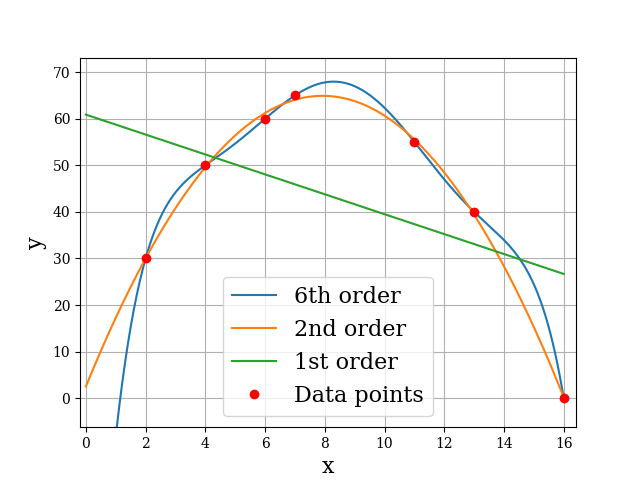
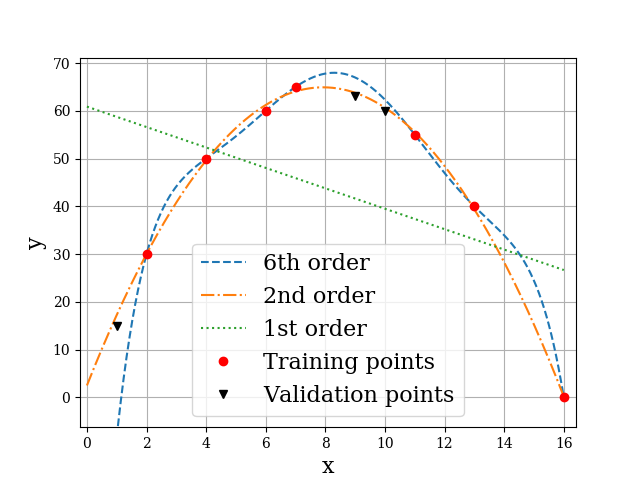
Wrote more about machine learning

diff --git a/doc/text/MachineLearning.tex b/doc/text/MachineLearning.tex
@@ -48,11 +48,11 @@ where the parameters $a$, $b$ and $c$ are our estimators. The polynomial is now 
 \end{equation}
 where $\tilde{y}_i=f(x_i)$ is the $y$-value of the polynomial at $x=x_i$. What we want to do is to determine the estimators $a$, $b$ and $c$ such that the mean squared error (MSE) of all these equations is minimized,
 \begin{equation}
-\min_{a,b,c}\sum_{i=0}^{n-1}(y_i-f(x_i;a.b.c))^2.
+\min_{a,b,c}\frac{1}{n}\sum_{i=0}^{n-1}(y_i-f(x_i;a.b.c))^2.
 \end{equation}
-There are several ways to do this, but they all are based on the \textit{cost function} (also called the loss function), which yields
+There are several ways to do this, but they all are based on the \textit{cost function} (also called the loss function), which can simply be defined as the MSE
 \begin{equation}
-\mathcal{C}(a,b,c)=\sum_{i=0}^{n-1}\Big(y_i-(ax_i^2+bx_i+c)\Big)^2
+\mathcal{C}(a,b,c)=\frac{1}{n}\sum_{i=0}^{n-1}\Big(y_i-(ax_i^2+bx_i+c)\Big)^2
 \end{equation}
 and which we seek to minimize. Before we start minimizing this, we will introduce a more general notation, where the estimators are collected in a column vector 
 \begin{equation*}
@@ -85,36 +85,79 @@ where differentiating with respect to a vector here means that each component is
 which is the equation we seek to solve to find the best fitting polynomial. Before we proceed to the general case, let us have a quick look at an example.
 
 \subsubsection{Example}
-In this example, we will see how we in practice fit a polynomial to a data set. The data set chosen is the following
+In this example, we will see how we in practice fit a polynomial to a data set. Suppose we have a tiny data set consisting of 10 points
 \begin{align*}
-\bs{x}&=(2,4,6,7,11,13,16)\\
-\bs{y}&=(30,50,60,65,55,40,0)
+\bs{x}&=(1,2,4,6,7,9,10,11,13,16)\\
+\bs{y}&=(15,30,50,60,65,63,60,55,40,0)
+\label{eq:datapoints}
 \end{align*}
-which is plotted in figure (\ref{fig:polynomials} a). We then use equation \eqref{eq:polynomialestimators} to find the best fitting first-, second- and sixth order polynomials, and obtain
-\begin{align*}
-f_{\text{1st}}(x)&=-2.14x+60.87\\
-f_{\text{2nd}}(x)&=-x^2+15.74x + 2.51\\
-f_{\text{6th}}(x)&=-0.001x^6+0.04x^5-0.90x^4+9.04x^3-47.52x^2+129.74x-98.67\\
-\end{align*}
-where both are plotted together with the data points in figure (\ref{fig:polynomials} b). What we observe is that the first order polynomial gives a large error, while the second order polynomial provides a almost perfect fit. The sixth order polynomial reproduces the targets very well, but it might not be able to reproduce new points in a very good way. From this we can interpret that a first order polynomial has a too low complexity, we say that it underfits the data set. The sixth order polynomial probably overfits the data, since its shape is kind of unnatural, while the second order polynomial seems to have a correct complexity. We will discuss how we can choose a model of correct complexity in the section on bias-variance tradeoff, but before that we will write some words on general linear regression.
+in a plane, which we want to fit a polynomial of degree $p$ to. The data points can be seen in figure (\ref{fig:polynomials} a). The first thing we need to realize, is that in order to validate our models, we cannot use all points for the training. There is no strict rules on how much of the data set that should be used for training and validation, but at least the training data set should be larger than the validation data set. For this particular problem, we decide to leave out $\{(1,15),(9,63),(10,60)\}$ from the training, which we later will use for validation.
+
+Furthermore, we use equation \eqref{eq:polynomialestimators} to find the best fitting first-, second- and sixth order polynomials, and obtain the functions presented in table \eqref{tab:example} with the respective training and validation errors. The polynomials are also plotted in figure (\ref{fig:polynomials} b) together with the actual data points.
+
 \begin{figure}
 	\centering
 	\subfloat[Data set]{{\includegraphics[width=8cm]{Images/datapoints.png}}}
 	\subfloat[Data set with fitted polynomials]{{\includegraphics[width=8cm]{Images/datacurve.png} }}
-	\caption{The figure on the left-hand-side presents a small number of points, where the figure on the right-hand-side illustrates how a first- and second order polynomial can be fitted to the points in the best possible way.}%
+	\caption{Figure (a) presents the data points given in \eqref{eq:datapoints}, while the figure (b) illustrates how a first-, second- and third order polynomial can be fitted to the training set in the best possible way.}%
 	\label{fig:polynomials}
 \end{figure}
 
+\begin{table}
+	\caption{Best fitting polynomials of 1st, 2nd and 6th order degree to the data set in equation \eqref{eq:datapoints}. $f(x)$ gives the actual form of the polynomial, the training error gives the MSE to the training data set and the prediction error gives the MSE to the validation set.}
+	\label{tab:example}
+	\begin{tabularx}{\textwidth}{llXXX} \hline\hline
+		Order & \makecell{\\ \phantom{=}} & $f(x)$ & Training error & Prediction error \\ \hline \\
+		
+		1st && $-2.14x+60.87$ & 327.22 & 927.87 \\
+		2nd && $-x^2+15.74x + 2.51$ & 0.47 & 2.04 \\
+		6th && $-0.001x^6+0.04x^5-0.90x^4+9.04x^3-47.52x^2+129.74x-98.67$ & 2.54E-11 & 187.53 \\ \hline\hline
+	\end{tabularx}
+\end{table}
+
+What we immediately observe, is that the more complex model (higher degree polynomial) the lower training error. In fact, the polynomial of sixth order reproduces the points perfectly. The first order polynomial is quite bad, while the second order polynomial is intermediate.
+
+However, what really makes sense is the prediction error, and for that we can see that the sixth order polynomial has a terrible performance. When a model can reproduce the training set very well, but is not able to reproduce the training set, we say that it overfits the data set. This means that the model is too complex for the purpose.
+
+On the other hand, we see that the first order polynomial has also a large prediction error, which means that it is not able to reproduce the validation set either. We say that it is underfitted, and we are in need of a more complex model.
+
+Finally, we have the second order polynomial, which is miles ahead its competitors when it comes to prediction error. It turns out that the second order model has an appropriate complexity, which we could have guess in advance.
+
+The natural question now is \textit{"How do we find a correct model complexity?"}. The answer is that one should try various complexities and calculate the prediction error for each model. To find the prediction error precisely, the standard is to use $K$ cross-validation resampling, which tries $K$ choices of validation set to make the most use of our data. More about resampling analysis can be found in section \eqref{sec:resampling}. A deeper understanding of the prediction error will hopefully be gained in the next section, on bias-variance decomposition. 
+
+\subsection{Bias-variance decomposition}
+Up to this point, we have skipped some important terms in the statistics. First, we have the \textit{bias}, which can be seen as the absolute error between the predictions and the targets,
+\begin{equation*}
+\text{bias}=\frac{1}{n}\sum_{i=0}^n(y_i-\tilde{y}_i),
+\end{equation*}
+which describes the best our model could do if we had an infinite amount of training data. We also have the \textit{variance}, which is given by 
+...
+So, should we seek to minimize the bias or the variance? This is a good question without any definitely correct answer. If we minimize the bias, the variance will explode and vice versa, so a better solution would be minimizing non of them. In other words, we need to do a trade-off between the bias and the variance known as the bias-variance trade-off. In figure \eqref{fig:bias_variance} 
+
+\begin{figure}
+	\centering
+	\subfloat[Illustration of bias and variance]{{\includegraphics[width=8cm]{Images/bias_variance.png}}}
+	\subfloat[Bias-variance trade-off]{{\includegraphics[width=8cm]{Images/bias_variance_tradeoff.png} }}
+	\caption{Bias-variance}%
+	\label{fig:bias_variance}
+\end{figure}
+
+The bias is reduced as a function of the complexity, but the variance tends to get higher as the complexity of the model is increased. For that reason, a very complex model is not guaranteed to provide a small error, but instead we need to find the trade-off between how expressive our model class is and how sensitive the fitted model is to sample fluctuations in the training data. This is known as the bias-variance trade-off, and is illustrated in figure \eqref{fig:bias_variance_tradeoff}.
+
+However, as Mehta et.al. notice, this is not necessarily a trade-off; we could both have a high variance and a high bias, and perhaps a more appropriate term would be bias-variance decomposition since the error can be decomposed into a bias part and a variance part. \cite{mehta_high-bias_2019} This decomposition is given by
+\begin{equation}
+E_{out}=bias^2+\sigma^2.
+\end{equation}
 
 \subsection{Linear regression}
-Polynomial regression is an example on a linear regression method, and was meant as motivation before we study linear regression in general. Instead of fitting a polynomials to a set of points, we can fit a general function on the form
+Polynomial regression, as already discussed, is an example on a linear regression method, and was meant as motivation before we study linear regression in general. Instead of fitting a polynomials to a set of points, we can fit a general function on the form
 \begin{equation}
 f(x_i)=\sum_{j=0}^pX_{ij}(x_i)\beta_j
 \label{eq:targets}
 \end{equation}
 where we have $p$ estimators $\beta_j$. The matrix $\bs{X}$ is called the \textit{design matrix}, and the case where $X_{ij}(x_i)=x_i^j$ corresponds to polynomial regression, but it can in principle be an arbitrary function of $x_i$.
 
-The cost function for \textit{the ordinaryordinary least square regression} (OLS) case is already found in equation \eqref{eq:costols}, and we can recall it as
+The cost function for \textit{the ordinary least square regression} (OLS) case is already found in equation \eqref{eq:costols}, and we can recall it as
 \begin{empheq}[box={\mybluebox[5pt]}]{equation}
 	\mathcal{C}(\bs{\beta})=\sum_{i=1}^{n}\Big(y_i-\sum_{j=0}^pX_{ij}\beta_j\Big)^2,\qquad\qquad\qquad\text{OLS}
 \end{empheq}
@@ -124,7 +167,7 @@ which is minimized when
 \label{eq:ols}
 \end{equation}
 
-To solve this equation, we need to find the inverse of the matrix $\bs{X}^T\bs{X}$, which typically done by \textit{lower-upper} decomposition (LU) or \textit{singular values decomposition} (SVD). Quite often when we deal with large data sets, the matrix above is singular, which means that the determinant of the matrix is zero. In those cases, we cannot find the inverse, and LU decomposition does not work. Fortunately, SVD \textit{always} works, and in cases where the matrix is singular, it turns out to be a good idea.
+To solve this equation, we need to find the inverse of the matrix $\bs{X}^T\bs{X}$, which is typically done by \textit{lower-upper} decomposition (LU) or \textit{singular values decomposition} (SVD). Quite often when we deal with large data sets, the matrix above is singular, which means that the determinant of the matrix is zero. In those cases, we cannot find the inverse, and LU decomposition does not work. Fortunately, SVD \textit{always} works, and in cases where the matrix is singular, it turns out to be a good idea.
 
 \subsubsection{Singular value decomposition}
 Singular value decomposition is a method which decomposes a matrix into a product of three matrices, written as
@@ -157,7 +200,7 @@ where $\bs{I}$ is the identity matrix. The penalty $\lambda$ is also a \textit{h
 \begin{empheq}[box={\mybluebox[5pt]}]{equation}
 	\mathcal{C}(\bs{\beta})=\sum_{i=1}^{n}\Big(y_i-\sum_{j=0}^pX_{ij}\beta_j\Big)^2+\lambda\sum_{j=1}^p|\beta_j|^2\qquad\text{Ridge}
 \end{empheq}
-where we in principle just add the L2-norm of the estimator vector to the OLS cost function. This can easiest be proven going from the cost function to the matrix-vector expression of $\bs{\beta}$.
+where we in principle just add the L2-norm of the estimator vector to the OLS cost function. This can easiest be proven going from the cost function to the matrix-vector expression of $\bs{\beta}$, as we did for ordinary least squares.
 
 \subsubsection{LASSO regression}
 Finally, we introduce the \textit{least absolute shrinkage and selection operator} (LASSO) regression, which in the same way as Ridge regression is based on a regularization. Instead of adding the L2-norm of the estimator matrix, we add the the L1-norm $|\beta_j|$, and the cost function expresses
@@ -166,58 +209,18 @@ Finally, we introduce the \textit{least absolute shrinkage and selection operato
 \end{empheq}
 For LASSO regression, there is no closed-form expressions for the estimators, which means that we need to use an iterative optimization algorithm in order to obtain the optimal estimators. Such optimization methods are essential in fields   will later be used in the variational Monte-Carlo sampling, and some methods are therefore detailed in chapter \eqref{chp:optimization}. 
 
-However, to illustrate how this procedure goes on, we will introduce the basic gradient descent method. 
-
-To illustrate how the iterative optimization works, we will go back to equation \eqref{eq:targets} and use OLS for simplicity reasons. Imagine that we have four points $\{(x_1,y_1),(x_2,y_2),(x_3,y_3),(x_4,y_4)\}$ that we want to fit to a curve of three parameters $\beta_1,\beta_2,\beta_3$. The simplest way to solve this interatively is to use \textbf{gradient descent} optimization, which goes as
+However, to illustrate how this procedure goes on, we will explain how an arbitrary cost function consisting of estimators $\beta_j$ can be minimized by the simplest optimization algorithm: \textbf{gradient descent},
 \begin{equation}
-\beta_k^+=\beta_k-\eta \frac{\partial\mathcal{L}(\bs{\beta})}{\partial\beta_k}
+\beta_j^+=\beta_j-\eta \frac{\partial\mathcal{C}(\bs{\beta})}{\partial\beta_j},
 \end{equation}
-with $\eta$ specifying how much the parameters should be changed for each iteration, known as the learning rate. 
-The output $\hat{y}_i$ can be expressed by
-\begin{equation}
-\hat{y}_i=X_{i1}\beta_1+X_{i2}\beta_2+X_{i3}\beta_3
-\end{equation}
-and the network can be illustrated with $\beta_j$ as the input nodes, $\hat{y}_i$ as the output nodes and $X_{ij}$ as lines in between all nodes, as in figure ... 
+where $\beta_j^+$ is the updated version of $\beta_j$  Here we again are introduced to a hyperparameter $\eta$, known as the \textit{learning rate}, which controls how much the estimators should be changed for each iteration. This should be set carefully, where a too large $\eta$ will make the cost function diverge and a too small $\eta$ will make the training too slow. Typically, the $\eta$ is 0.01-0.0001.
 
-ADD FIGURE
-
-To go further, we will restrict  ourselves to a second order polynomial, setting $X_{i1}=1$, $X_{i1}=x_i$ and $X_{i1}=x_i^2$. The parameter update then yields
-\begin{equation}
-\beta_k^+=\beta_k+2\eta\sum_{i=1}^3(y_i-\beta_1-\beta_2x_i-\beta_3x_i^2)x_i^{k-1},
-\end{equation}
-which can be run iteratively until the parameters have converged. 
-
-We will again stress that we go through this iterative method for illustration purposes only, it would be more efficient to apply equation \eqref{eq:ols}. However, the thinking above is similar to the approach we do when training a neural network. An important difference is that we here search for an estimate of the left-hand-side (LHS) \textit{nodes} $b_j$, while in a traditional feed-forward neural network (FNN) we want to find the \textit{weights}, the parameters that connect the nodes together (here $X_{ij}$). The principle with multiplying the left-hand-side nodes by the weights to obtain the right-hand-side nodes is though the same, and we can use the same minimization tools. An example that is even more related to neural networks is \textit{logistic regression}, which will be discussed in the next section. 
-
-\subsubsection{Bias-variance decomposition}
-If we now go back to the introduction to this section, we listed two points that we want the model to satisfy in order to be a good model: it should reproduce the targets and give reasonable results for cases where we do not have targets. Will a complex model always perform better than a less complex model? The answer is no, and we will below try to explain why. 
-
-
-
-In machine learning, we want to fit a model to a data set. This is usually done by an initial guess on the model, and we thereafter train it to minimize the out-of-sample error. This error is a function of the \textit{variance} and \textit{bias}, where the former is a measure on how much the error fluctuates and the latter represents the the best our model could do if we had an infinite amount of training data. An useful illustration of this is found in figure \eqref{fig:bias_variance}.
-
-\begin{figure}[H]
-	\centering
-	\includegraphics[scale=0.6]{Images/bias_variance.png}
-	\caption{Taken from \cite{mehta_high-bias_2019}.}
-	\label{fig:bias_variance}
-\end{figure}
-
-The bias is reduced as a function of the complexity, but the variance tends to get higher as the complexity of the model is increased. For that reason, a very complex model is not guaranteed to provide a small error, but instead we need to find the trade-off between how expressive our model class is and how sensitive the fitted model is to sample fluctuations in the training data. This is known as the bias-variance trade-off, and is illustrated in figure \eqref{fig:bias_variance_tradeoff}.
-
-\begin{figure}[H]
-	\centering
-	\includegraphics[scale=0.6]{Images/bias_variance_tradeoff.png}
-	\caption{Bias-variance trade-off. Taken from \cite{mehta_high-bias_2019}.}
-	\label{fig:bias_variance_tradeoff}
-\end{figure}
-\
-However, as Mehta et.al. notice, this is not necessarily a trade-off; we could both have a high variance and a high bias, and perhaps a more appropriate term would be bias-variance decomposition since the error can be decomposed into a bias part and a variance part. \cite{mehta_high-bias_2019} This decomposition is given by
-\begin{equation}
-E_{out}=bias^2+\sigma^2.
-\end{equation}
 
 \subsection{Logistic regression}
+Up to this point, we have discussed regression with continuous output. But what do we do if we want a discrete output, for example in form of classification?
+
+Need to introduce log likelyhood here
+
 In the previous section we presented how to fit a polynomial to a set of points using linear regression. In this chapter we will look at classification problems using logistic regression. Traditionally, the perceptron model was used for \textit{hard classification}, which sets the outputs directly to binary values. However, often we are interested in the probability of a given category, which means that we need a continuous \textit{activation function}. Logistic regression can, like linear regression, be considered as a function where weights are adjusted with the intention to minimize the error. An illustration of a simple perceptron is found in figure (\ref{fig:single_perceptron}).
 
 \input{tikz/singlelayer_perceptron.tex}

diff --git a/doc/text/Results.tex b/doc/text/Results.tex
@@ -451,15 +451,15 @@ It is also interesting to investigate how the energy is distributed between kine
 		
 		&6 & 0.01 && 0.6932(5) & 0.031(2) & 0.260(2) & 0.401(1) \\
 		&& 0.1 && NOT CONV 17.13(3) & 0.4(1) & 16.2(1) & 0.531(5) \\
-		&& 0.28 && EXPL & - & - & - \\
+		&& 0.28 && 7.6203(2) & 0.9519(6) & 2.82(1) & 3.84(1) \\
 		&& 0.5 && 11.8074(2) & 1.7018(7) & 4.513(1) & 5.5927(9) \\
 		&& 1.0 && 20.1832(1) & 3.428(1) & 8.068(1) & 8.687(1) \\
 		&& 3.0 && EXPL & - & - & - \\ \hdashline \\
 		
 		&12 & 0.01 && 2.547(7) & 0.045(7) & 0.99(1) & 1.51(1) \\
 		&& 0.1 && NOT CONV 16.52(2) & 0.71(2) & 11.28(2) & 4.529(6) \\
-		&& 0.28 && NOT CONV 31.520(2) & 2.239(1) & 19.905(4) & 9.376(1) \\
-		&& 0.5 && DIV & - & - & - \\
+		&& 0.28 && 26.403(2) & 2.189(2) & 9.524(3) & 14.689(4) \\
+		&& 0.5 && 40.141(2) & 4.149(2) & 14.624(4) & 21.368(4) \\
 		&& 1.0 && NOT CONV 65.9578(7) & 8.240(2) & 26.931(4) & 30.787(3) \\
 		&& 3.0 && 156.280(2) & 21.4(3) & 78.2(3) & 56.662(4) \\ \hdashline \\
 		
@@ -468,7 +468,7 @@ It is also interesting to investigate how the energy is distributed between kine
 		&& 0.28 && NOT CONV 88.92(5) & 3.3(2) & 65.1(2) & 20.53(3) \\
 		&& 0.5 && NOT CONV 95.882(4) & 8.314(3) & 34.095(8) & 53.473(7) \\
 		&& 1.0 && NOT CONV 159.034(4) & 17.89(3) & 57.94(3) & 83.203(8) \\
-		&& 3.0 && TIME & - & - & - \\ \hline \hline
+		&& 3.0 && 360.085(2) & 34(3) & 177(3) & 148.897(8) \\ \hline \hline
 	\end{tabularx}
 \end{table} 
 
@@ -492,8 +492,8 @@ It is also interesting to investigate how the energy is distributed between kine
 		&& 3.0 && 80.6280(3) & 18.35(2) & 38.64(2) & 23.627(2) \\ \hdashline \\
 		
 		&20 & 0.01 && 6.012(2) & 0.156(2) & 3.00(2) & 2.860(2) \\
-		&& 0.1 && - & - & - & - \\
-		&& 0.28 && - & - & - & - \\
+		&& 0.1 && 27.774(2) & 1.694(2) & 9.527(5) & 16.553(5) \\
+		&& 0.28 && 57.722(4) & 5.00(7) & 20.4(1) & 32.35(5) \\
 		&& 0.5 && EXPL & - & - & - \\
 		&& 1.0 && TIME & - & - & - \\
 		&& 3.0 && 333.027(1) & 49.3(3) & 152.1(3) & 131.618(7) \\ \hdashline \\

diff --git a/doc/text/pgf/datapointsplot.tex b/doc/text/pgf/datapointsplot.tex
@@ -1,0 +1,56 @@
+% This file was created by tikzplotlib v0.8.0.
+\begin{tikzpicture}
+
+\definecolor{color0}{rgb}{0.12156862745098,0.466666666666667,0.705882352941177}
+
+\begin{axis}[
+legend cell align={left},
+legend style={draw=white!80.0!black},
+tick align=outside,
+tick pos=left,
+x grid style={white!69.01960784313725!black},
+xlabel={x},
+xmajorgrids,
+xmin=-0.8, xmax=16.8,
+xtick style={color=black},
+y grid style={white!69.01960784313725!black},
+ylabel={y},
+ymajorgrids,
+ymin=-3.20000000000041, ymax=67.2,
+ytick style={color=black}
+]
+\addplot [semithick, color0]
+table {%
+0 5.6843418860808e-14
+1 15.0000000000001
+2 28
+3 39
+4 48
+5 55
+6 60
+7 63
+8 63.9999999999999
+9 62.9999999999999
+10 59.9999999999999
+11 54.9999999999998
+12 47.9999999999998
+13 38.9999999999997
+14 27.9999999999997
+15 14.9999999999997
+16 -3.97903932025656e-13
+};
+\addlegendentry{f(x)=-x^2+16x}
+\addplot [semithick, red, mark=*, mark size=3, mark options={solid}, only marks]
+table {%
+2 28
+4 48
+6 60
+7 63
+11 55
+13 39
+16 0
+};
+\addlegendentry{data points}
+\end{axis}
+
+\end{tikzpicture}

diff --git a/doc/text/pgf/datapoints.tex b/doc/text/pgf/datapoints.tex
@@ -1,0 +1,33 @@
+% This file was created by tikzplotlib v0.8.0.
+\begin{tikzpicture}
+
+\begin{axis}[
+legend cell align={left},
+legend style={draw=white!80.0!black},
+tick align=outside,
+tick pos=left,
+x grid style={white!69.01960784313725!black},
+xlabel={x},
+xmajorgrids,
+xmin=1.3, xmax=16.7,
+xtick style={color=black},
+y grid style={white!69.01960784313725!black},
+ylabel={y},
+ymajorgrids,
+ymin=-3.15, ymax=66.15,
+ytick style={color=black}
+]
+\addplot [semithick, red, mark=*, mark size=3, mark options={solid}, only marks]
+table {%
+2 28
+4 48
+6 60
+7 63
+11 55
+13 39
+16 0
+};
+\addlegendentry{data points}
+\end{axis}
+
+\end{tikzpicture}

diff --git a/doc/text/Optimization.tex b/doc/text/Optimization.tex
@@ -81,7 +81,7 @@ Momentum can be added to most optimization algorithms, also gradient descent and
 \sigma^2=\langle E_L^2\rangle - \langle E_L\rangle^2
 \end{equation}
 
-\section{Resampling analysis}
+\section{Resampling analysis} \label{sec:resampling}
 \subsection{Blocking}
 dkdkdk
 
